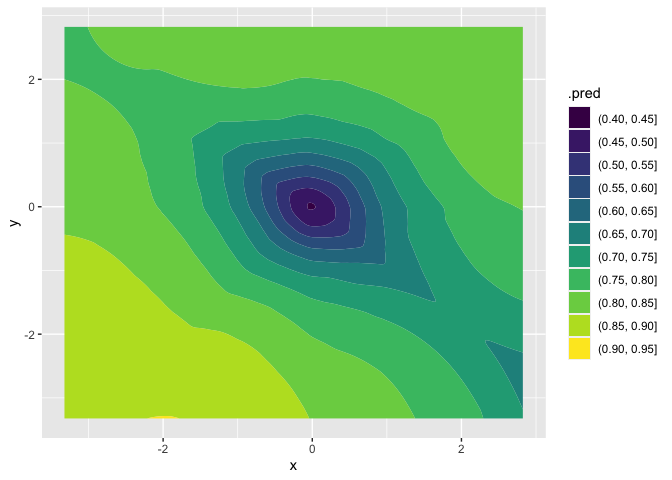
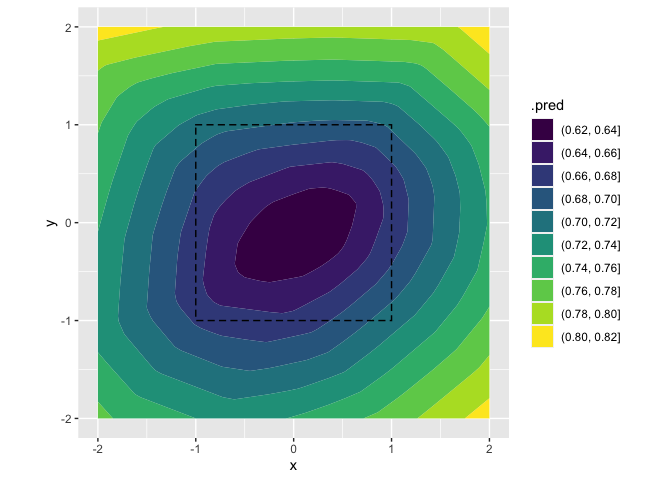
wand mlp activation SELU -> RELU
I think the weight init is wrong for SELU, but I _thought_ torch defaults were compatible with selu. Maybe an R torch thing?

diff --git a/README.md b/README.md
@@ -45,6 +45,7 @@ Using `wand` alone:
 suppressPackageStartupMessages({
   library(wand)
   library(dplyr)
+  library(ggplot2)
   library(parsnip)
   library(recipes)
   library(workflows)
@@ -61,7 +62,7 @@ predict(wand_fit, bivariate_test, type = "prob") %>%
 #> # A tibble: 1 × 3
 #>   .metric .estimator .estimate
 #>   <chr>   <chr>          <dbl>
-#> 1 roc_auc binary         0.731
+#> 1 roc_auc binary         0.777
 ```
 
 Using `wand` with the `tidymodels` ecosystem:
@@ -98,23 +99,24 @@ The `wand` package also includes a few convenience functions for
 inspecting the fitted smooths. Currently, only 1d and 2d smooths are
 supported. Here is an example of a 2d contour.
 
-TODO This is..inconsistent.
-
 ``` r
 # Some synthetic data with a square shape
-df <- tibble(x = rnorm(1000), 
-             y = rnorm(1000), 
-             class = factor((abs(x) > 0.75 | abs(y) > 0.75), 
-                            levels = c(T, F), 
-                            labels = c("out", "in")))
+df <- expand.grid(x = seq(-2, 2, 0.1), 
+                  y = seq(-2, 2, 0.1)) %>% 
+  mutate(class = factor((abs(x) > 1 | abs(y) > 1), 
+                        levels = c(T, F), 
+                        labels = c("out", "in")))
 
-wand_fit <- wand(class ~ s_mlp(x, y, hidden_units = c(128, 182)),
-                 epochs = 200,
-                 data = df)
+wand_fit <- wand(class ~ s_mlp(x, y), epochs = 25, data = df)
 #> No improvement for the last 5 epochs. Stopping.
 
 smooth_contours <- wand_plot_smooths(wand_fit, df)
-smooth_contours[[1]]
+
+smooth_contours[[1]] +
+  annotate("rect", xmin = -1, xmax = 1, ymin = -1, ymax = 1,
+           fill = alpha("grey", 0), colour = "black", 
+           linetype = "dashed") +
+  coord_fixed()
 ```
 
 <img src="man/figures/README-unnamed-chunk-5-1.png" width="100%" />
